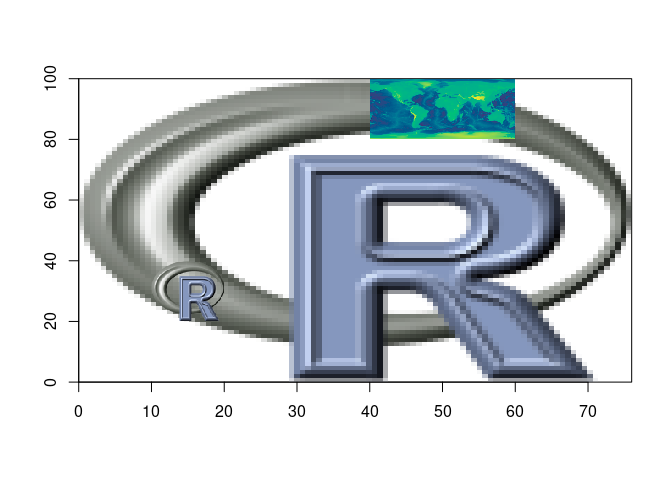
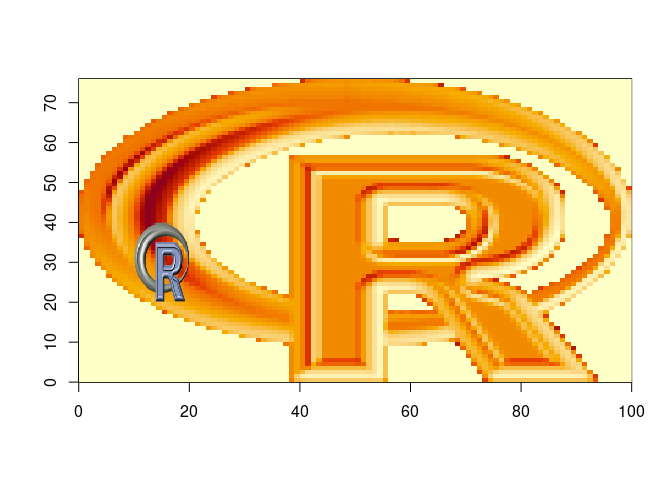
readme and fiddly bits

diff --git a/README.md b/README.md
@@ -8,23 +8,21 @@
 [![R-CMD-check](https://github.com/hypertidy/ximage/actions/workflows/R-CMD-check.yaml/badge.svg)](https://github.com/hypertidy/ximage/actions/workflows/R-CMD-check.yaml)
 <!-- badges: end -->
 
-VERY VERY WIP
-
 The goal of ximage is to make something like ‘image()’ and
-‘rasterImage()’ but without the acquired need for compatibility with
-WTAF.
+‘rasterImage()’ but without the missing functionality and useability.
 
-<!--
+ximage supports making images from
 
-## Installation
+- numeric, character, byte matrix
+- numeric array
+- nativeRaster
+- list returned from `vapour::gdal_raster_()` functions which include
+  numeric, character, byte vectors or nativeRaster
 
-You can install the development version of ximage from [GitHub](https://github.com/) with:
-
-``` r
-# install.packages("devtools")
-devtools::install_github("hypertidy/ximage")
-```
--->
+The orientation is in “raster-order”, i.e. when you’re looking at the
+picture it’s topleft to topright, then scan lines down each row to the
+bottom (like western reading and `par(mfrow)` order). This matches the
+way that spatial data readers read imagery.
 
 ## Example
 
@@ -38,6 +36,7 @@ ximage(topo)  ## plot in the index space of the matrix
 <img src="man/figures/README-example-1.png" width="100%" />
 
 ``` r
+
 ## or, plot in the geographic space (we happen to know this for this matrix)
 ximage(topo, extent = c(-180, 180, -90, 90), axes = F)
 axis(1); axis(2);box()
@@ -47,6 +46,8 @@ axis(1); axis(2);box()
 
 ``` r
 ximage(logo_a)  ## plot a RGB array
+#> Warning in matrix(palr::image_pal(x, col, breaks = breaks), dim(x)[1L], : data
+#> length differs from size of matrix: [30400 != 76 x 100]
 ## plot  a native raster over the other in a different window
 ximage(logo_n, extent = c(10, 20, 20, 40), add = TRUE)
 
@@ -54,6 +55,42 @@ ximage(topo, extent = c(40, 60, 80, 100), add = TRUE, col = hcl.colors(256))
 ```
 
 <img src="man/figures/README-example-3.png" width="100%" />
+
+We can get imagery from the internet, and plot it very quickly.
+
+``` r
+library(vapour)  ## quite a recent version, dev in January 2024
+virtual_earth <-  "<GDAL_WMS><Service name=\"VirtualEarth\"><ServerUrl>http://a${server_num}.ortho.tiles.virtualearth.net/tiles/a${quadkey}.jpeg?g=90</ServerUrl></Service><MaxConnections>4</MaxConnections><Cache/></GDAL_WMS>"
+par(mar = rep(0, 4))
+px <- dev.size("px")
+px[which.min(px)] <- 0
+
+## change lon_0 and lat_0 to anywhere you like
+im <- gdal_raster_nara(virtual_earth, target_ext = c(-1, 1, -1, 1) * 3e5, target_dim = px, target_crs = "+proj=laea +lon_0=147 +lat_0=-42")
+#> Byte
+#> 1
+
+system.time(ximage(im, asp = 1))
+```
+
+<img src="man/figures/README-imagery-1.png" width="100%" />
+
+    #>    user  system elapsed 
+    #>   0.006   0.000   0.006
+
+
+    ## crank up the size it's still fast
+    px <- px * 4
+    im <- gdal_raster_nara(virtual_earth, target_ext = c(-1, 1, -1, 1) * 3e5, target_dim = px, target_crs = "+proj=laea +lon_0=147 +lat_0=-42")
+    #> Byte
+    #> 1
+
+    system.time(ximage(im, asp = 1))
+
+<img src="man/figures/README-imagery-2.png" width="100%" />
+
+    #>    user  system elapsed 
+    #>   0.126   0.032   0.159
 
 ## Code of Conduct
 

diff --git a/NEWS.md b/NEWS.md
@@ -1,4 +1,4 @@
-# ximage dev
+# ximage 0.0
 
 * `ximage()` now handles `breaks` argument to go with `col` (for numeric input). 
 
